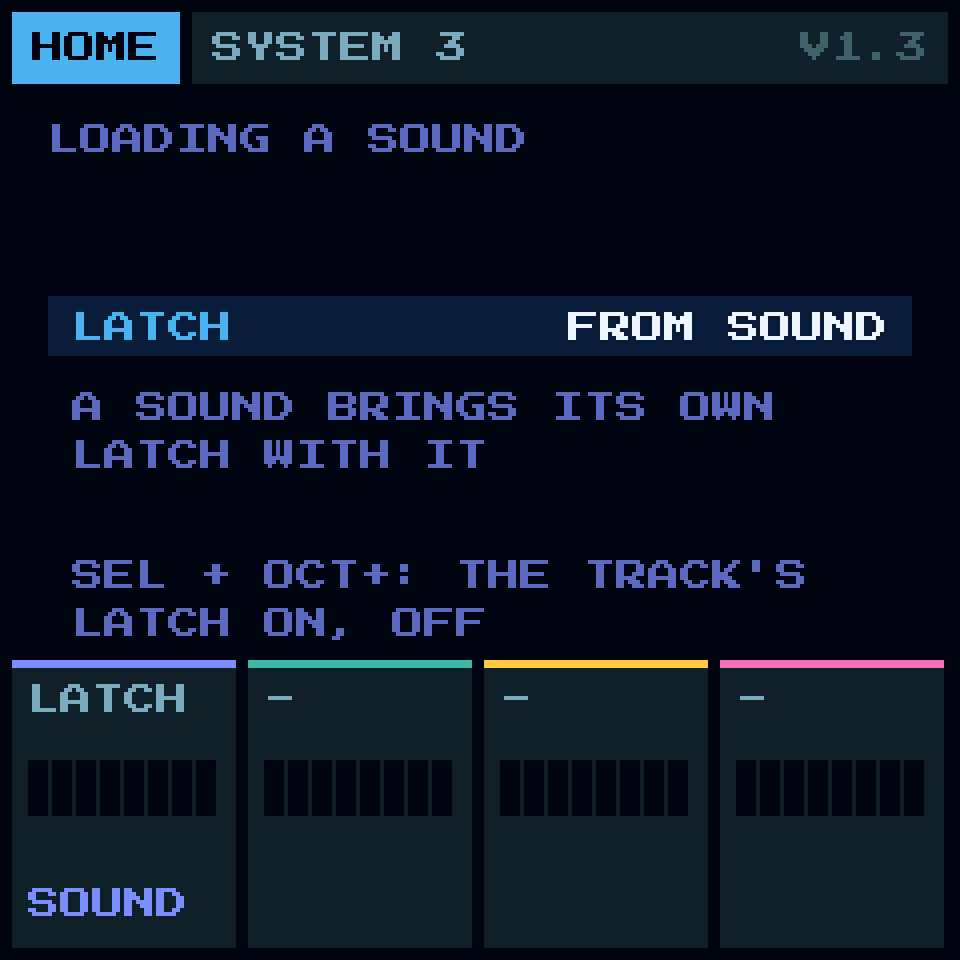
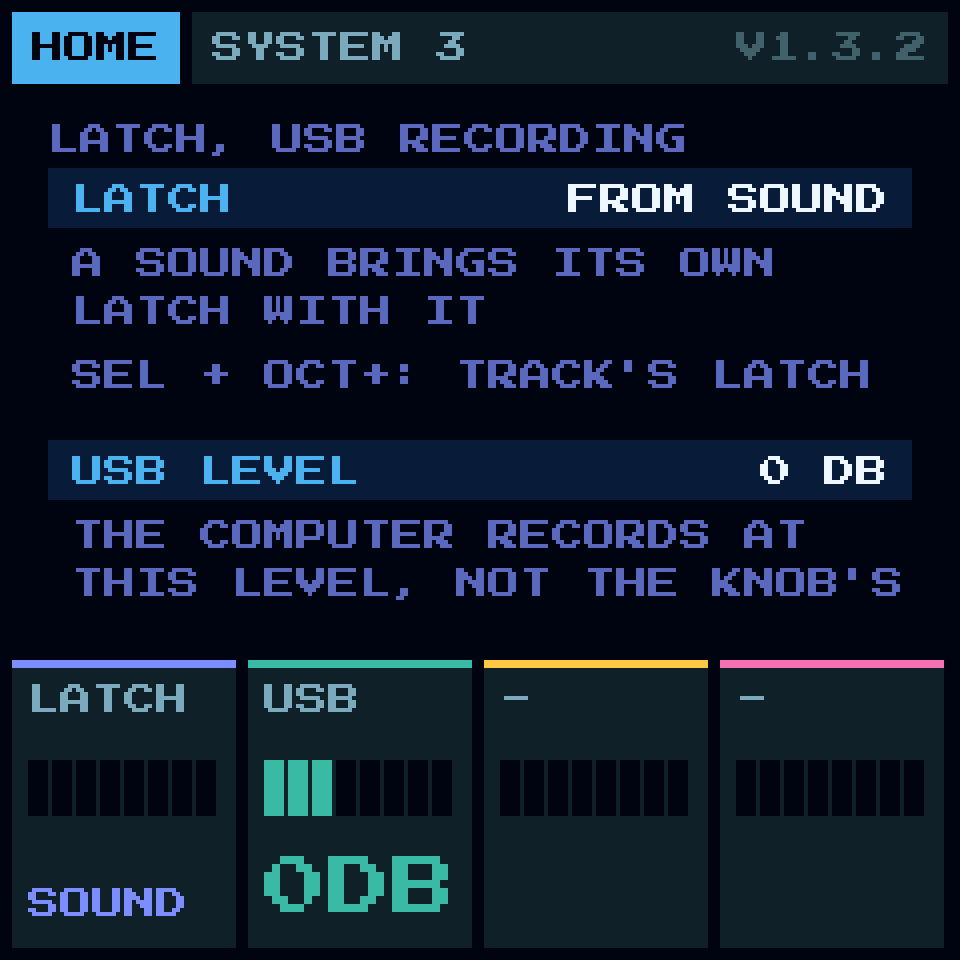
SYSTEM 3: USB LEVEL, the computer's recording -12 .. +24 dB in 6 dB steps (0 dB: MASTER's top), a limiter after it; settings version 4 (171 B), the older ones and their backups loaded at 0 dB
Claude-Session: https://claude.ai/code/session_01UsLUFuSR9ov7P1uNYap5by

diff --git a/web/editor_core.js b/web/editor_core.js
@@ -532,7 +532,8 @@ export const FT_NAMES = ["LP", "HP", "BP"];
 // ------------------------------------------------------------------ the settings (docs/EDITOR_PROTOCOL.md): GR!MM V2's two
 // on the SETTINGS section; the rest (the octave, TUNE, COLOUR, SCREEN OFF, SEQ MIDI OUT, MIDI LEARN's links) as read
 export const SET_V1 = 168;                                   // V1.0's settings (version 1, no CLOCK)
-export const SET_V2 = 169;                                   // V2's version 2 (CLOCK, no LATCH); version 3's: 170
+export const SET_V2 = 169;                                   // V2's version 2 (CLOCK, no LATCH)
+export const SET_V3 = 170;                                   // version 3's (LATCH, no USB LEVEL: 0 dB); version 4's: 171
 export const MCH_NAMES = [...Array.from({ length: 13 }, (_, k) => `${k + 1}-${k + 4}`), "ALL > SEL",
   ...Array.from({ length: 16 }, (_, k) => `CH ${k + 1} > SEL`)];
 export const CLOCK_NAMES = ["INT", "INT+OUT", "USB", "TRS"];
@@ -556,7 +557,7 @@ export function checkBackup(b, info) {                       // -> [{id, data, w
   const sizes = new Map(backupObjects(info).map(([id, size, what]) => [id, [size, what]]));
   return b.objects.map((o) => {
     const d = unb64(o.data), s = sizes.get(o.id);
-    const oldset = o.id === OBJ.SET && (d.length === SET_V1 || d.length === SET_V2) && s && s[0] > d.length;   // (an
+    const oldset = o.id === OBJ.SET && (d.length === SET_V1 || d.length === SET_V2 || d.length === SET_V3) && s && s[0] > d.length;   // (an
                                                              // older GR!MM's settings: 1.0's, V2's version 2: taken)
     if (!s || (d.length !== s[0] && !oldset) || crc32(d) !== o.crc) throw new EditorError(`object ${o.id} is damaged or not this firmware's`, 90);
     return { id: o.id, data: d, what: s[1] };

diff --git a/firmware/src/grimm.c b/firmware/src/grimm.c
@@ -58,8 +58,9 @@
  *              arps' notes out on their tracks' channels too; SAMPLES: RESTORE + OCT+ writes the four factory
  *              samples over the slots, OCT- keeps them; none built in: CLEAR, the slots emptied), HOME again:
  *              SYSTEM 3 (GR!MM V2: LATCH: FROM SOUND, a sound loaded brings its own LATCH, as before; ALWAYS OFF, a
- *              sound loaded sets the track's LATCH OFF; at the load only: EDIT's LATCH, SEL + OCT+ as ever); the
- *              FM-1's settings, not the project's
+ *              sound loaded sets the track's LATCH OFF; at the load only: EDIT's LATCH, SEL + OCT+ as ever;
+ *              Arctic Scream p0larpatch: USB LEVEL, -12 .. +24 dB in 6 dB steps, the computer's recording over USB,
+ *              a limiter after it); the FM-1's settings, not the project's
  *   SAVE       SOUNDS (64 slots: a track's source, its four, ENV, LATCH (FM: its own patch); SLOT, CATEGORY, TYPE (the list by source),
  *              ACTION; playing: SAVE / CLEAR wait for the stop) -> PROJECTS (the slots A..D: the four tracks' sounds,
  *              sequences and the mixer; SLOT, ACTION LOAD / SAVE / ERASE / NEW); OCT+ does the ACTION, OCT- backs out;
@@ -340,7 +341,12 @@ static void mix_tracks(int32_t *out, uint32_t used, uint32_t n)   /* the soundin
  * (platform.c's knob, squared; its top quarter up to 6 dB more: at the top, the level before V2), then a limiter: a
  * peak past OUT_LIM (just under full scale) at once, let go over ~90 ms: nothing reaches the clip.
  * (Arctic Scream p0larpatch) A computer recording over USB gets the mix as at MASTER's top, through a limiter of its
- * own: the knob sets the speaker and the headphones, not the recording (at a quarter it was ~30 dB down) */
+ * own: the knob sets the speaker and the headphones, not the recording (at a quarter it was ~30 dB down); SYSTEM 3's
+ * USB LEVEL moves it -12 .. +24 dB (USB_G, Q12: 4092 at 0 dB, MASTER's top) */
+#define USB_L0 2u                               /* USB LEVEL 0 dB (MASTER's top) */
+#define USB_LMAX 6u
+static const int32_t USB_G[USB_LMAX + 1u] = {1027, 2051, 4092, 8165, 16291, 32505, 64856};
+static volatile uint8_t usb_lvl = USB_L0;       /* set.usb, for the audio (sys_sync) */
 #define OUT_LIM 32440                           /* (-0.09 dBFS) */
 #define OUT_MQ 2304                             /* (MASTER at 3/4: 768^2 / 256) */
 static int32_t out_env;                         /* audio: the limiter's peak (its gain: OUT_LIM / it) */
@@ -363,14 +369,14 @@ static inline void out_lim(int32_t *l, int32_t *r, int32_t *env)
 }
 static void out_stage(int32_t *out, uint32_t n)
 {
-    int32_t g = out_gain(), env = out_env, ue = usb_env, u[64];
+    int32_t g = out_gain(), env = out_env, ue = usb_env, ug = USB_G[usb_lvl <= USB_LMAX ? usb_lvl : USB_L0], u[64];
     uint32_t i, rec = (uint32_t)usb_feeding();
     for (i = 0; i < n; i++) {
         int32_t x = clamp(out[2u * i], -500000, 500000), y = clamp(out[2u * i + 1u], -500000, 500000);
         int32_t l = (x * g) >> 12, r = (y * g) >> 12;
         out_lim(&l, &r, &env);
-        if (rec) {                              /* (the USB recording: MASTER at its top, 4092) */
-            int32_t ul = (x * 4092) >> 12, ur = (y * 4092) >> 12;
+        if (rec) {                              /* (the USB recording: MASTER at its top, USB LEVEL's gain) */
+            int32_t ul = (int32_t)(((int64_t)x * ug) >> 12), ur = (int32_t)(((int64_t)y * ug) >> 12);
             out_lim(&ul, &ur, &ue);
             u[2u * (i & 31u)] = ul, u[2u * (i & 31u) + 1u] = ur;
             if ((i & 31u) == 31u || i + 1u == n)
@@ -913,10 +919,12 @@ static struct {
     uint8_t clk;                                /* (V2, SET_VER 2) CLOCK: CK_INT .. CK_TRS; V1.0's settings: INT */
     uint8_t latch;                              /* (V2, SET_VER 3) SYSTEM 3's LATCH: 0 FROM SOUND (before: so), 1
                                                  * ALWAYS OFF */
+    uint8_t usb;                                /* (Arctic Scream p0larpatch, SET_VER 4) SYSTEM 3's USB LEVEL: 0 .. 6,
+                                                 * -12 .. +24 dB; USB_L0 (0 dB) before */
 } set;
-#define SET_VER 3u
+#define SET_VER 4u
 static uint32_t set_dirty, set_t;               /* the settings changed, when */
-static volatile int32_t sy_col, sy_mch, sy_tune, sy_scr, sy_learn, sy_out, sy_fac, sy_clk, sy_latch;   /* SYSTEM's,
+static volatile int32_t sy_col, sy_mch, sy_tune, sy_scr, sy_learn, sy_out, sy_fac, sy_clk, sy_latch, sy_usb;   /* SYSTEM's,
                                                  * SYSTEM 2's, SYSTEM 3's knobs (sy_fac: SAMPLES, 1 RESTORE: OCT+
                                                  * writes the factory ones) */
 static uint32_t fac_at;                         /* RESTORE confirmed: when it writes (the header said first), 0 none */
@@ -1023,7 +1031,7 @@ static const page_t PAGES[NPAGE] = {
                                                  * SOURCE's) */
     {"MASTER", BTN_FX, 1, 0, 1, {"CUTOFF", "RESONANCE", "TYPE", "POSITION"}},   /* (GR!MM V2: FX's 5th and 6th, master.c) */
     {"DRIVE", BTN_FX, 1, 0, 1, {"AMOUNT", "TYPE", "TONE", "MIX"}},
-    {"SYSTEM 3", BTN_HOME, 1, 0, 0, {"LATCH", "", "", ""}},   /* (V2: a NEW project's tracks' LATCH) */
+    {"SYSTEM 3", BTN_HOME, 1, 0, 0, {"LATCH", "USB", "", ""}},   /* (V2: a NEW project's tracks' LATCH) */
 };
 static uint32_t pg_key(uint32_t p)              /* its place in its button's round */
 {
@@ -1109,7 +1117,7 @@ static volatile int32_t *knob_param(uint32_t pg, uint32_t k)   /* what KNOB k + 
     case PG_PROJECTS: return k == 0u ? &pj_slot : k == 3u ? &pj_act : 0;   /* (CATEGORY, TYPE: "-") */
     case PG_SYSTEM: return k == 0u ? &sy_col : k == 1u ? &sy_mch : k == 2u ? &sy_tune : &sy_scr;
     case PG_SYS2: return k == 0u ? &sy_learn : k == 1u ? &sy_out : k == 2u ? &sy_fac : &sy_clk;
-    case PG_SYS3: return k == 0u ? &sy_latch : 0;
+    case PG_SYS3: return k == 0u ? &sy_latch : k == 1u ? &sy_usb : 0;
     default: return 0;                          /* (not built yet: the knobs do nothing) */
     }
 }
@@ -1126,7 +1134,7 @@ static int32_t knob_max(uint32_t pg, uint32_t k)
            pg == PG_DRONE ? (k < 2u ? 100 : k == 2u ? DR_NRISE - 1 : 1) :
            pg == PG_SONG ? (k == 0u ? SONG_N - 1 : k == 1u ? SONG_END : k == 2u ? 16 : NSONGMODE - 1) :
            pg == PG_SYSTEM ? (k == 0u ? 3 : k == 1u ? MCH_MAX : k == 2u ? 50 : 4) : pg == PG_SYS2 ? (k == 3u ? CK_N - 1 : k ? 1 : 2) :
-           pg == PG_SYS3 ? 1 :
+           pg == PG_SYS3 ? (k == 1u ? (int32_t)USB_LMAX : 1) :
            pg == PG_FMALGO ? (k == 0u ? 31 : k == 1u ? 7 : k == 2u ? 5 : 99) :
            pg == PG_FMOP ? (k ? 99 : 31) : pg == PG_MIX2 ? (k == 1u ? NFTYPE - 1 : k == 2u ? 1 : 127) :
            pg == PG_MASTER ? (k == 2u ? NFTYPE - 1 : k == 3u ? NMPOS - 1 : 127) :
@@ -1182,6 +1190,14 @@ static char *tune_text(char *s, int32_t v)      /* TUNE: "+00", "-12" */
     s[0] = v < 0 ? '-' : '+', v = v < 0 ? -v : v;
     s[1] = (char)('0' + v / 10 % 10), s[2] = (char)('0' + v % 10), s[3] = 0;
     return s + 3;
+}
+static char *usb_db(char *s, int32_t v, const char *sp)   /* USB LEVEL: "-12DB" .. "+24DB" (sp between); returns s */
+{
+    int32_t d = (clamp(v, 0, (int32_t)USB_LMAX) - (int32_t)USB_L0) * 6;
+    char *e = s;
+    if (d) *e++ = d < 0 ? '-' : '+';
+    put_s(put_s(put_u(e, (uint32_t)(d < 0 ? -d : d)), sp), "DB");
+    return s;
 }
 static void knob_text(uint32_t pg, uint32_t k, char *s)   /* knob k's value on page pg, as the screen shows it */
 {
@@ -1663,6 +1679,7 @@ static void sys_sync(void)
     int8_t tn = (int8_t)clamp(sy_tune, -50, 50);
     uint8_t col = (uint8_t)clamp(sy_col, 0, 3), mch = (uint8_t)clamp(sy_mch, 0, MCH_MAX), scr = (uint8_t)clamp(sy_scr, 0, 4);
     uint8_t out = (uint8_t)clamp(sy_out, 0, 1), clk = (uint8_t)clamp(sy_clk, 0, CK_N - 1), la = (uint8_t)clamp(sy_latch, 0, 1);
+    uint8_t ul = (uint8_t)clamp(sy_usb, 0, (int32_t)USB_LMAX);
     uint32_t n, t;
     if (mch != set.mch || (set.out && !out)) mo_flush = 1;
     if (mch != set.mch)
@@ -1673,14 +1690,15 @@ static void sys_sync(void)
                     midi_held[n] &= (uint8_t)~(0x11u << t);
                 }
     if (tn != set.tune || col != set.col || mch != set.mch || scr != set.scr || out != set.out || clk != set.clk ||
-        la != set.latch) {
+        la != set.latch || ul != set.usb) {
         set.tune = tn, set.col = col, set.mch = mch, set.scr = scr, set.out = out, set.clk = clk, set.latch = la;
+        set.usb = ul;
         set_dirty = 1, set_t = fm1_ms;
     }
     ck_mode = set.clk, rt_usb_fast = set.clk == CK_USB;   /* (CLOCK: the audio ISR's, platform.c's) */
     ui_acc_user = UI_ACCENTS[set.col & 3u];
     tune_f = (set.tune * 23666 + set.tune * set.tune * 7) / 10000;   /* (2^(c / 1200) - 1, x 4096) */
-    mo_seq = set.out, snd_latch_off = set.latch;
+    mo_seq = set.out, snd_latch_off = set.latch, usb_lvl = set.usb;
 }
 static void sys_load(void)                      /* the settings at power-on into SYSTEM's knobs (version 19's: the
                                                  * octave alone; steps 20..24's: no ver, their links to HOME's T1..T4
@@ -1688,25 +1706,30 @@ static void sys_load(void)                      /* the settings at power-on into
 {
     int8_t o = 0;
     uint32_t i;
+    set.usb = USB_L0;                           /* (the older ones' below: no USB LEVEL, 0 dB) */
     if (!settings_load(&set, sizeof set))
         ;
-    else if (!settings_load(&set, sizeof set - 1u))   /* (V2's before SET_VER 3: no LATCH, OFF) */
-        set.latch = 0;
-    else if (!settings_load(&set, sizeof set - 2u))   /* (V1.0's: no CLOCK, INT) */
-        set.clk = CK_INT, set.latch = 0;
-    else if (!settings_load(&set, sizeof set - 3u))   /* (steps 20..24's: no version either) */
-        set.ver = 0, set.clk = CK_INT, set.latch = 0;
+    else if (!settings_load(&set, sizeof set - 1u))   /* (SET_VER 3's: no USB LEVEL) */
+        set.usb = USB_L0;
+    else if (!settings_load(&set, sizeof set - 2u))   /* (V2's before SET_VER 3: no LATCH, OFF) */
+        set.latch = 0, set.usb = USB_L0;
+    else if (!settings_load(&set, sizeof set - 3u))   /* (V1.0's: no CLOCK, INT) */
+        set.clk = CK_INT, set.latch = 0, set.usb = USB_L0;
+    else if (!settings_load(&set, sizeof set - 4u))   /* (steps 20..24's: no version either) */
+        set.ver = 0, set.clk = CK_INT, set.latch = 0, set.usb = USB_L0;
     else {
         set.oct = settings_load(&o, 1) ? 0 : o;
         set.tune = 0, set.col = set.mch = set.scr = set.out = set.nlk = 0, set.ver = 0, set.clk = CK_INT, set.latch = 0;
+        set.usb = USB_L0;
     }
     if (set.mch > MCH_MAX) set.mch = 0;
     if (set.clk >= CK_N) set.clk = CK_INT;
     if (set.latch > 1u) set.latch = 0;
+    if (set.usb > USB_LMAX) set.usb = USB_L0;
     if (set.oct < -2 || set.oct > 2) set.oct = 0;
     if (set.nlk > NLINK) set.nlk = 0;
     sy_col = set.col, sy_mch = set.mch, sy_tune = set.tune, sy_scr = set.scr, sy_out = set.out, sy_clk = set.clk;
-    sy_latch = set.latch;
+    sy_latch = set.latch, sy_usb = set.usb;
     sys_sync();
     set_dirty = 0;
     if (!set.ver)                               /* (steps 20..24's; V1.0's are version 1: as they are) */

diff --git a/firmware/src/ui.c b/firmware/src/ui.c
@@ -363,7 +363,10 @@ static void ui_slab_make(uint32_t k, slab_t *S)
         put_s(S->val, k == 2u ? (v ? SMP_FACT_N ? "RESTORE" : "CLEAR" : "KEEP") : k ? (v ? "ON" : "OFF") :
               v == LEARN_CLEAR ? "CLEAR" : LEARN_NAME[clamp(v, 0, 2)]);
         return;
-    case PG_SYS3: put_s(S->val, v ? "OFF" : "SOUND"); return;   /* (V2) LATCH: FROM SOUND, ALWAYS OFF */
+    case PG_SYS3:                               /* (V2) LATCH: FROM SOUND, ALWAYS OFF; USB LEVEL: -12DB .. +24DB */
+        if (k == 1u) { usb_db(S->val, v, ""); return; }
+        put_s(S->val, v ? "OFF" : "SOUND");
+        return;
     case PG_SOUNDS:
         if (k == 0u) { ui_3(S->val, (uint32_t)v + 1u); return; }
         if (k == 1u) { ui_squeeze(S->val, CAT_NAME[clamp(v, 0, NCAT - 1)]); return; }
@@ -1930,14 +1933,24 @@ static void pic_sys2(void)
     }
 }
 
-static void pic_sys3(void)                      /* (V2) SYSTEM 3: LATCH, what it does; the combo for the track's */
+static void sys3_row(int32_t y, const char *l, const char *v)
 {
-    ui_caption("LOADING A SOUND", 0);
-    sys_row(0, "LATCH", set.latch ? "ALWAYS OFF" : "FROM SOUND");
-    ui_text(PX0 + 6, 98, set.latch ? "A SOUND LOADED: THE" : "A SOUND BRINGS ITS OWN", 1, UI_M);
-    ui_text(PX0 + 6, 110, set.latch ? "TRACK'S LATCH OFF" : "LATCH WITH IT", 1, UI_M);
-    ui_text(PX0 + 6, 140, "SEL + OCT+: THE TRACK'S", 1, UI_M);
-    ui_text(PX0 + 6, 152, "LATCH ON, OFF", 1, UI_M);
+    ui_rect(PX0, y, 216, 15, UI_D);
+    ui_text(PX0 + 6, y + 4, l, 1, UI_L);
+    ui_text(PX0 + 210 - 8 * ui_len(v), y + 4, v, 1, UI_W);
+}
+static void pic_sys3(void)                      /* (V2) SYSTEM 3: LATCH, what it does; the combo for the track's;
+                                                 * (Arctic Scream p0larpatch) USB LEVEL, the computer's recording */
+{
+    char v[12];
+    ui_caption("LATCH, USB RECORDING", 0);
+    sys3_row(42, "LATCH", set.latch ? "ALWAYS OFF" : "FROM SOUND");
+    ui_text(PX0 + 6, 62, set.latch ? "A SOUND LOADED: THE" : "A SOUND BRINGS ITS OWN", 1, UI_M);
+    ui_text(PX0 + 6, 74, set.latch ? "TRACK'S LATCH OFF" : "LATCH WITH IT", 1, UI_M);
+    ui_text(PX0 + 6, 90, "SEL + OCT+: TRACK'S LATCH", 1, UI_M);
+    sys3_row(110, "USB LEVEL", usb_db(v, set.usb, " "));
+    ui_text(PX0 + 6, 130, "THE COMPUTER RECORDS AT", 1, UI_M);
+    ui_text(PX0 + 6, 142, "THIS LEVEL, NOT THE KNOB'S", 1, UI_M);
 }
 
 static void pic_notbuilt(void) { ui_text(120 - 4 * 13, 96, "NOT BUILT YET", 1, UI_M); }
@@ -2025,7 +2038,7 @@ static uint32_t ui_pic_key(void)
     }
     if (page == PG_TAPE) UI_H(tf_wow), UI_H(tf_sat), UI_H(tf_tone), UI_H(tf_hiss);
     if (page == PG_SYSTEM || page == PG_SYS2 || page == PG_SYS3) {   /* the settings, the links */
-        UI_H(set.col), UI_H(set.mch), UI_H(set.tune), UI_H(set.scr), UI_H(set.out), UI_H(set.nlk), UI_H(set.latch);
+        UI_H(set.col), UI_H(set.mch), UI_H(set.tune), UI_H(set.scr), UI_H(set.out), UI_H(set.nlk), UI_H(set.latch), UI_H(set.usb);
         for (k = 0; k < NLINK * 5u; k++) UI_H(set.lk[k / 5u][k % 5u]);
     }
     if (PAGES[page].btn == BTN_SEQ) {           /* the pattern, its settings, the cursor, the step playing */

diff --git a/firmware/src/editor.c b/firmware/src/editor.c
@@ -107,19 +107,23 @@ static uint32_t ed_commit(uint32_t o)
         __typeof__(set) s;
         uint32_t i;
         memcpy(&s, ED_RX, sizeof s);
-        if (ed_len == sizeof s - 2u) {          /* (V1.0's: version 1, no CLOCK: INT, no LATCH: OFF) */
+        if (ed_len == sizeof s - 3u) {          /* (V1.0's: version 1, no CLOCK: INT, no LATCH: OFF) */
             if (s.ver != 1u) return ER_BAD;
-            s.ver = SET_VER, s.clk = CK_INT, s.latch = 0;
-        } else if (ed_len == sizeof s - 1u) {   /* (V2's version 2: no LATCH, OFF) */
+            s.ver = SET_VER, s.clk = CK_INT, s.latch = 0, s.usb = USB_L0;
+        } else if (ed_len == sizeof s - 2u) {   /* (V2's version 2: no LATCH, OFF) */
             if (s.ver != 2u) return ER_BAD;
-            s.ver = SET_VER, s.latch = 0;
+            s.ver = SET_VER, s.latch = 0, s.usb = USB_L0;
+        } else if (ed_len == sizeof s - 1u) {   /* (version 3's, 1.3.1 and before: no USB LEVEL, 0 dB) */
+            if (s.ver != 3u) return ER_BAD;
+            s.ver = SET_VER, s.usb = USB_L0;
         }
         if (s.ver != SET_VER || s.oct < -2 || s.oct > 2 || s.tune < -50 || s.tune > 50 || s.col > 3u ||
-            s.mch > MCH_MAX || s.scr > 4u || s.out > 1u || s.nlk > NLINK || s.clk >= CK_N || s.latch > 1u)
+            s.mch > MCH_MAX || s.scr > 4u || s.out > 1u || s.nlk > NLINK || s.clk >= CK_N || s.latch > 1u || s.usb > USB_LMAX)
             return ER_BAD;
         for (i = 0; i < s.nlk; i++)
             if (s.lk[i][1] >= NPAGE || s.lk[i][2] > 3u || s.lk[i][3] > 3u) return ER_BAD;
         sy_col = s.col, sy_mch = s.mch, sy_tune = s.tune, sy_scr = s.scr, sy_out = s.out, sy_clk = s.clk, sy_latch = s.latch;
+        sy_usb = s.usb;
         sys_sync();                             /* (a new MIDI CHANNEL: what is on out there let go first) */
         set.oct = s.oct, set.nlk = s.nlk, set.ver = SET_VER;
         memcpy(set.lk, s.lk, sizeof set.lk);
@@ -278,8 +282,8 @@ static int ed_frame(const uint8_t *f, uint32_t n, int silent)
         if (op == 0u) {                         /* BEGIN: fmt, len (5), crc (5) */
             uint32_t len = n >= 13u ? ed_rd35(f + 3) : 0u;
             if (n < 13u || !ed_size(o) || o >= EO_FACT || (o >= EO_SMP && o < EO_SND) || f[2] != ED_FMT ||
-                (len != ed_size(o) && !(o == EO_SET && len + 2u >= sizeof set && len < sizeof set))) rc = ER_ARGS;
-                                                /* (the settings: V1.0's, V2's version 2 too, a backup of then) */
+                (len != ed_size(o) && !(o == EO_SET && len + 3u >= sizeof set && len < sizeof set))) rc = ER_ARGS;
+                                                /* (the settings: V1.0's, V2's version 2, 1.3.1's version 3 too, a backup of then) */
             else if (!silent) rc = ER_STOP;
             else ed_obj = (int32_t)o, ed_len = len, ed_crc = ed_rd35(f + 8), ed_got = 0, ed_t = fm1_ms;
         } else if (op == 1u) {                  /* DATA: off (5), pack7, where the last ended */

diff --git a/tests/quick_test.py b/tests/quick_test.py
@@ -41,9 +41,9 @@ def run(name, ev, end, env=None):
     return pr, out
 
 
-def settings(name, out=0, latch=0):             # version 3's settings (170 B): SEQ MIDI OUT, SYSTEM 3's LATCH
-    b = bytearray(170)
-    b[5], b[167], b[169] = out, 3, latch
+def settings(name, out=0, latch=0, usb=2):      # version 4's settings (171 B): SEQ MIDI OUT, SYSTEM 3's LATCH, USB LEVEL
+    b = bytearray(171)
+    b[5], b[167], b[169], b[170] = out, 4, latch, usb
     f = OUT / f"set_{name}.bin"
     f.write_bytes(bytes(b))
     return dict(os.environ, GRIMM_SETTINGS_IN=str(f))
@@ -59,14 +59,14 @@ def probes(*ts):
     return [(t, "probe") for t in ts]
 
 
-# SYSTEM 3: HOME held (SYSTEM), HOME, HOME; LATCH turned to ALWAYS OFF (saved: 170 B); HOME: SYSTEM again
+# SYSTEM 3: HOME held (SYSTEM), HOME, HOME; LATCH turned to ALWAYS OFF (saved: 171 B); HOME: SYSTEM again
 ev = [(300, "down 8"), (1000, "up 8"), (1200, "btn 8"), (1400, "btn 8"), (1600, "enc 2 1"), (4000, "btn 8")]
 pr, out = run("sys3", ev + probes(1100, 1300, 1500, 1700, 4100), 4200)
 check("HOME held, HOME, HOME: SYSTEM, SYSTEM 2, SYSTEM 3; HOME again: SYSTEM",
       [pr[t]["page"] for t in (1100, 1300, 1500, 4100)] == [PG_SYSTEM, PG_SYS2, PG_SYS3, PG_SYSTEM],
       [pr[t]["page"] for t in (1100, 1300, 1500, 4100)])
-check("SYSTEM 3's LATCH: FROM SOUND as set out; turned to ALWAYS OFF, saved with the settings (170 B)",
-      pr[1500]["new"] == 0 and pr[1700]["new"] == 1 and "settings saved (170 B)" in out)
+check("SYSTEM 3's LATCH: FROM SOUND as set out; turned to ALWAYS OFF, saved with the settings (171 B)",
+      pr[1500]["new"] == 0 and pr[1700]["new"] == 1 and "settings saved (171 B)" in out)
 # a sound loaded (PRESETS: CRYPT PAD, saved with LATCH ON)
 PRESET = [(300, "enc 6 1")]
 pr, _ = run("snd_from", PRESET + probes(500), 600)

diff --git a/tools/make_screens.py b/tools/make_screens.py
@@ -136,7 +136,7 @@ SHOTS = {
 
 def build():
     os.makedirs(os.path.dirname(HOST), exist_ok=True)
-    subprocess.run(["cc", "-O2", "-w", "-DDINGHY_HOST", "-DAPP_VER=\"1.3\"", "-Dsection(x)=used",
+    subprocess.run(["cc", "-O2", "-w", "-DDINGHY_HOST", "-DAPP_VER=\"1.3.2\"", "-Dsection(x)=used",
                     "-Ifirmware/src", "-Ifirmware/gen", "-o", HOST, "firmware/src/grimm.c"], cwd=ROOT, check=True)
 
 

diff --git a/tests/latch_test.py b/tests/latch_test.py
@@ -24,8 +24,8 @@ bad = 0
 
 
 def settings(latch):
-    b = bytearray(170)
-    b[167], b[169] = 3, latch
+    b = bytearray(171)
+    b[167], b[169], b[170] = 4, latch, 2
     f = OUT / f"set{latch}.bin"
     f.write_bytes(bytes(b))
     return dict(os.environ, GRIMM_SETTINGS_IN=str(f), GRIMM_PLAIN="1")   # (Arctic Scream: plain VA tracks)
